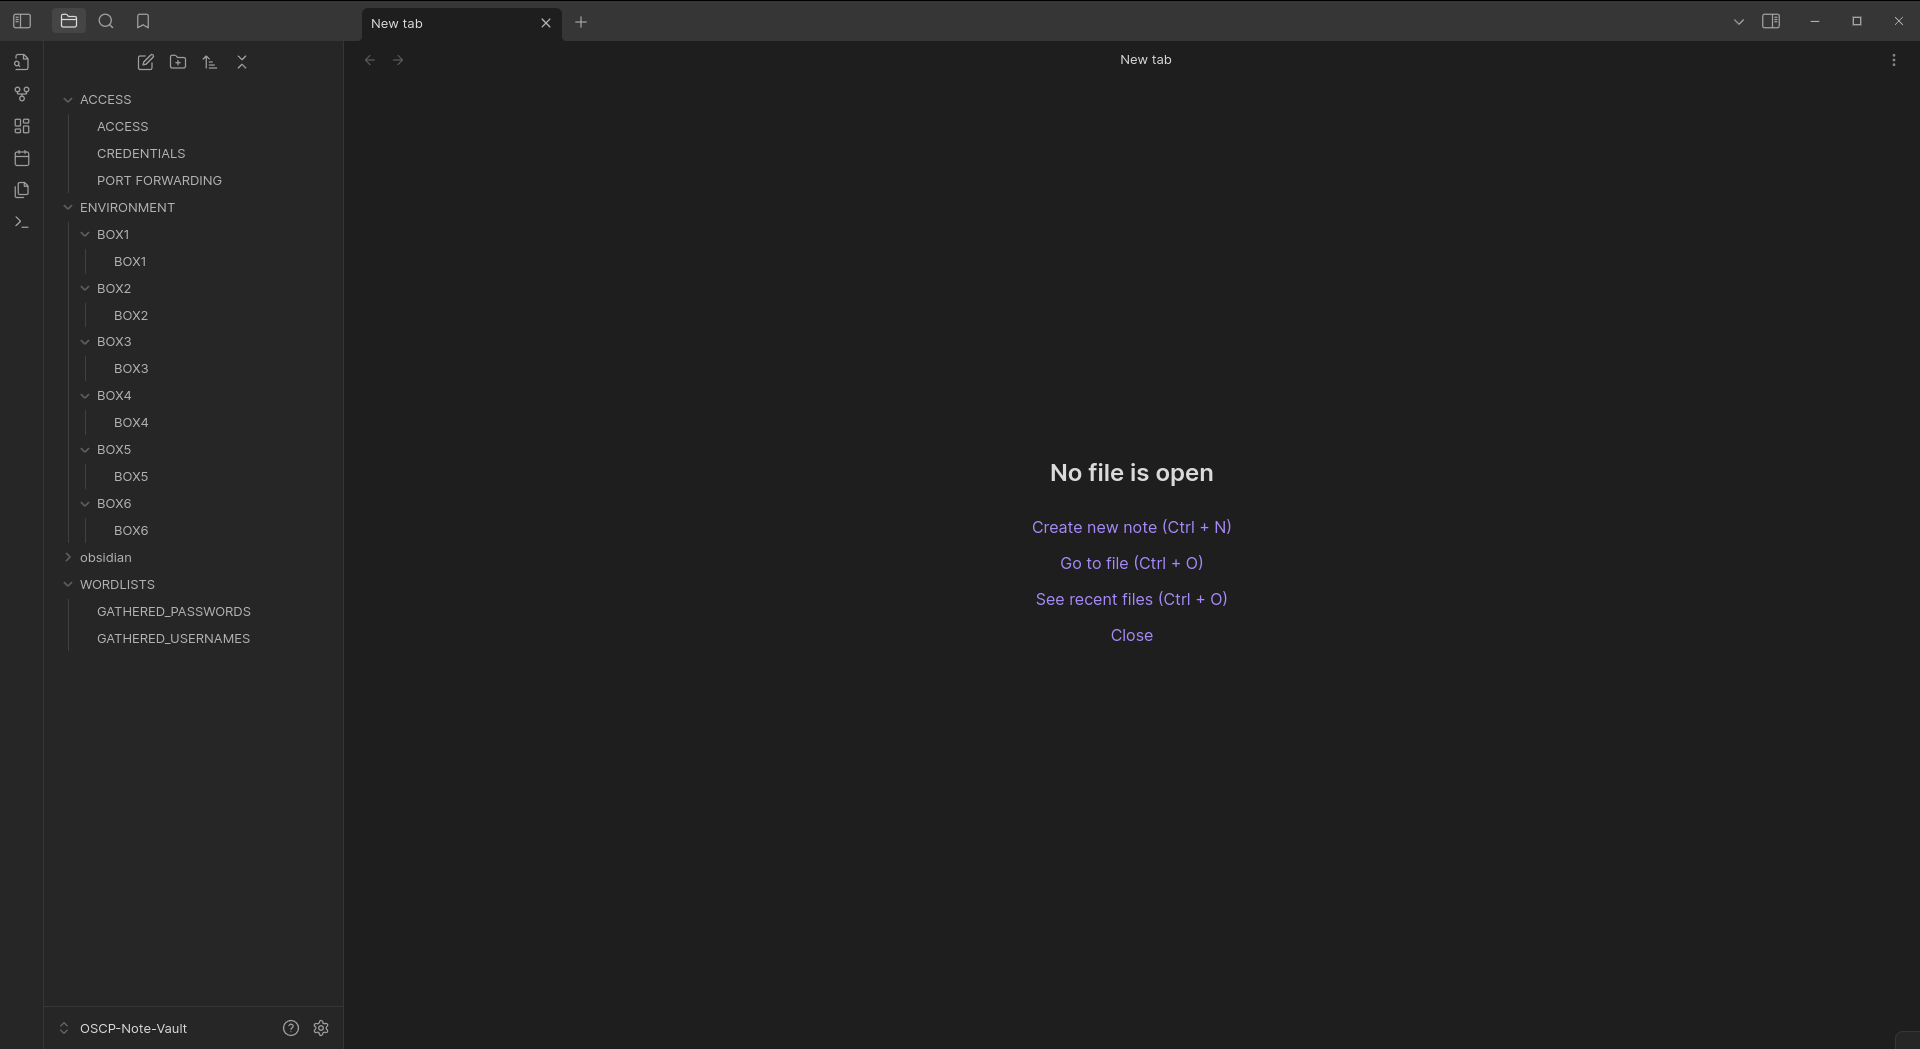
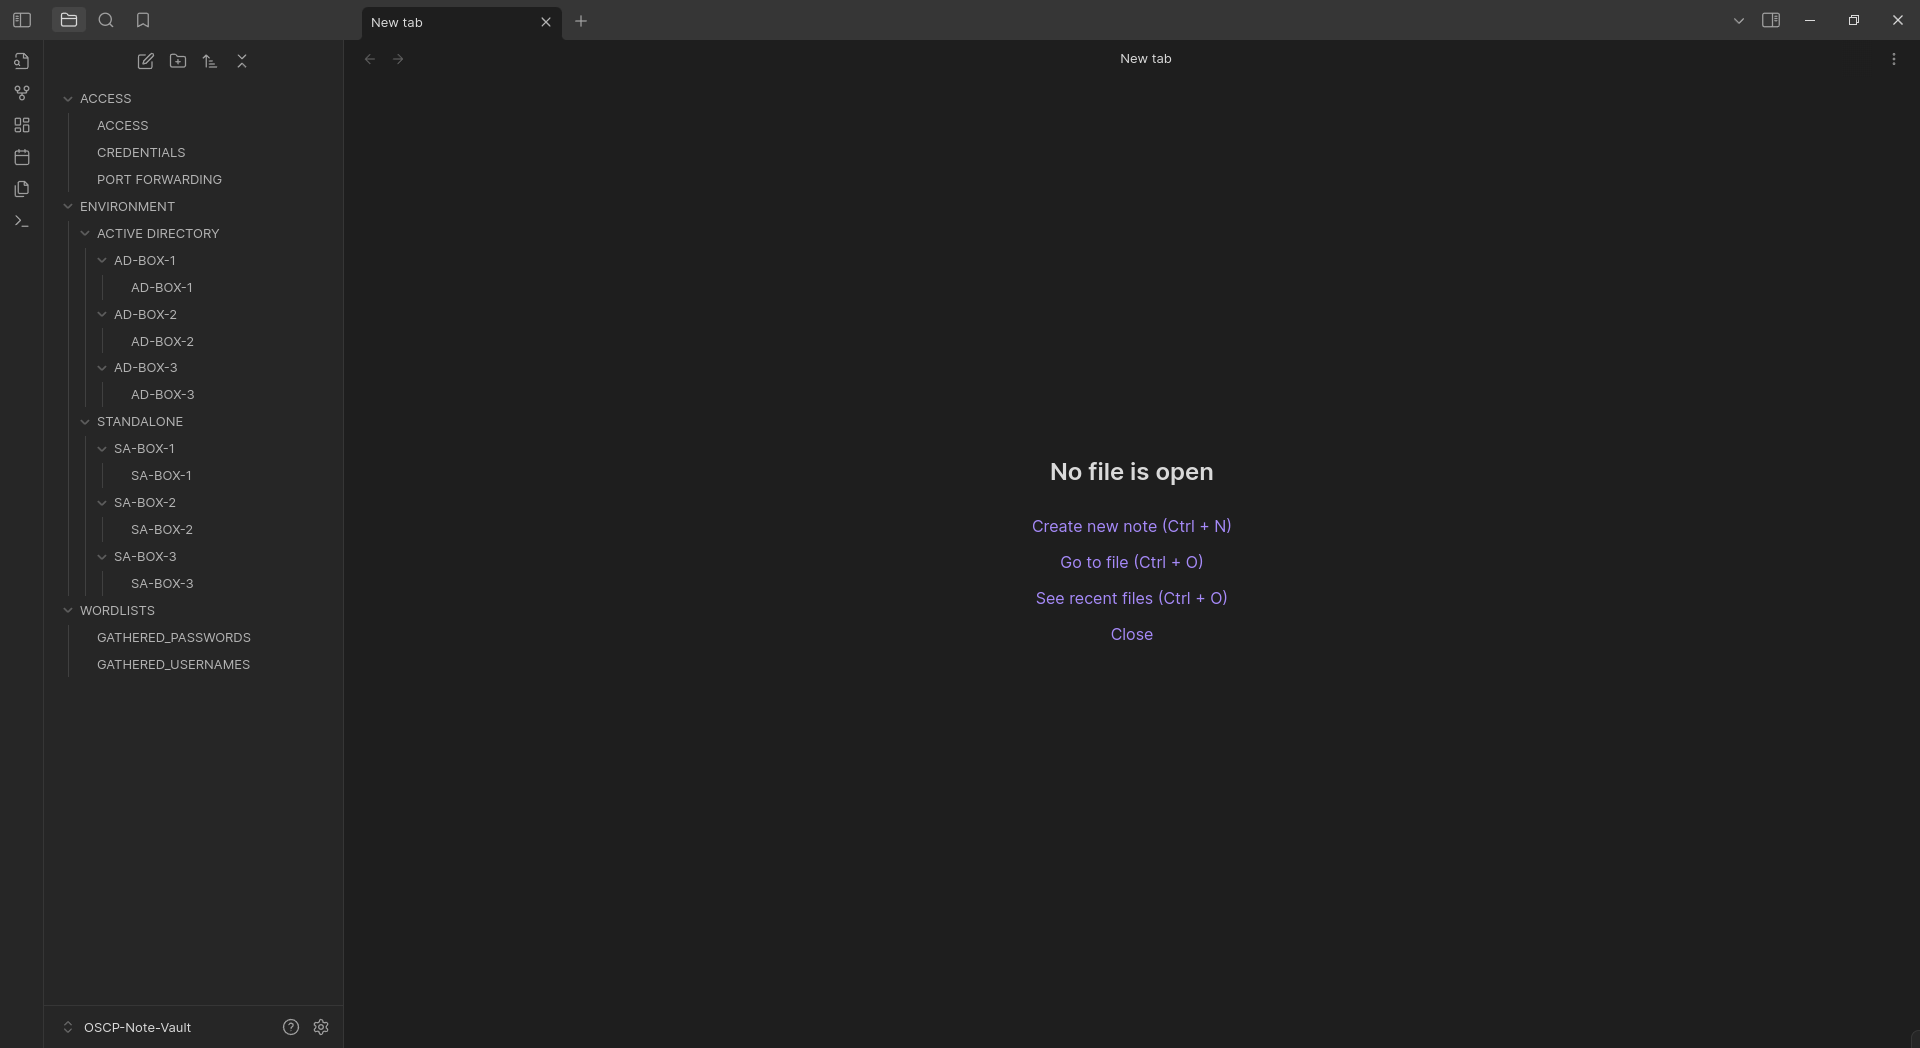
updated folder structure

diff --git a/OSCP-Note-Vault/ENVIRONMENT/ACTIVE DIRECTORY/AD-BOX-1/AD-BOX-1.md b/OSCP-Note-Vault/ENVIRONMENT/ACTIVE DIRECTORY/AD-BOX-1/AD-BOX-1.md
@@ -1,7 +1,7 @@
 
-| IP address      | Name | OS            | Access    | Password / Hash | FLAGS            | Status        |
-| --------------- | ---- | ------------- | --------- | --------------- | ---------------- | ------------- |
-| XXX.XXX.XXX.XXX | BOX2 | WINDOWS/LINUX | `COMMAND` | `PASSWORD/HASH` | NONE/LOCAL/PROOF | NOT-PWND/PWND |
+| IP address      | Name     | OS            | Access    | Password / Hash | FLAGS            | Status        |
+| --------------- | -------- | ------------- | --------- | --------------- | ---------------- | ------------- |
+| XXX.XXX.XXX.XXX | AD-BOX-1 | WINDOWS/LINUX | `COMMAND` | `PASSWORD/HASH` | NONE/LOCAL/PROOF | NOT-PWND/PWND |
 
 ## Table of Contents
 

diff --git a/OSCP-Note-Vault/ENVIRONMENT/ACTIVE DIRECTORY/AD-BOX-2/AD-BOX-2.md b/OSCP-Note-Vault/ENVIRONMENT/ACTIVE DIRECTORY/AD-BOX-2/AD-BOX-2.md
@@ -1,7 +1,7 @@
 
-| IP address      | Name | OS            | Access    | Password / Hash | FLAGS            | Status        |
-| --------------- | ---- | ------------- | --------- | --------------- | ---------------- | ------------- |
-| XXX.XXX.XXX.XXX | BOX3 | WINDOWS/LINUX | `COMMAND` | `PASSWORD/HASH` | NONE/LOCAL/PROOF | NOT-PWND/PWND |
+| IP address      | Name     | OS            | Access    | Password / Hash | FLAGS            | Status        |
+| --------------- | -------- | ------------- | --------- | --------------- | ---------------- | ------------- |
+| XXX.XXX.XXX.XXX | AD-BOX-1 | WINDOWS/LINUX | `COMMAND` | `PASSWORD/HASH` | NONE/LOCAL/PROOF | NOT-PWND/PWND |
 
 ## Table of Contents
 

diff --git a/OSCP-Note-Vault/ENVIRONMENT/ACTIVE DIRECTORY/AD-BOX-3/AD-BOX-3.md b/OSCP-Note-Vault/ENVIRONMENT/ACTIVE DIRECTORY/AD-BOX-3/AD-BOX-3.md
@@ -1,7 +1,7 @@
 
-| IP address      | Name | OS            | Access    | Password / Hash | FLAGS            | Status        |
-| --------------- | ---- | ------------- | --------- | --------------- | ---------------- | ------------- |
-| XXX.XXX.XXX.XXX | BOX6 | WINDOWS/LINUX | `COMMAND` | `PASSWORD/HASH` | NONE/LOCAL/PROOF | NOT-PWND/PWND |
+| IP address      | Name     | OS            | Access    | Password / Hash | FLAGS            | Status        |
+| --------------- | -------- | ------------- | --------- | --------------- | ---------------- | ------------- |
+| XXX.XXX.XXX.XXX | AD-BOX-1 | WINDOWS/LINUX | `COMMAND` | `PASSWORD/HASH` | NONE/LOCAL/PROOF | NOT-PWND/PWND |
 
 ## Table of Contents
 

diff --git a/OSCP-Note-Vault/ENVIRONMENT/STANDALONE/SA-BOX-1/SA-BOX-1.md b/OSCP-Note-Vault/ENVIRONMENT/STANDALONE/SA-BOX-1/SA-BOX-1.md
@@ -1,7 +1,7 @@
 
-| IP address      | Name | OS            | Access    | Password / Hash | FLAGS            | Status        |
-| --------------- | ---- | ------------- | --------- | --------------- | ---------------- | ------------- |
-| XXX.XXX.XXX.XXX | BOX4 | WINDOWS/LINUX | `COMMAND` | `PASSWORD/HASH` | NONE/LOCAL/PROOF | NOT-PWND/PWND |
+| IP address      | Name     | OS            | Access    | Password / Hash | FLAGS            | Status        |
+| --------------- | -------- | ------------- | --------- | --------------- | ---------------- | ------------- |
+| XXX.XXX.XXX.XXX | SA-BOX-1 | WINDOWS/LINUX | `COMMAND` | `PASSWORD/HASH` | NONE/LOCAL/PROOF | NOT-PWND/PWND |
 
 ## Table of Contents
 

diff --git a/OSCP-Note-Vault/ENVIRONMENT/STANDALONE/SA-BOX-2/SA-BOX-2.md b/OSCP-Note-Vault/ENVIRONMENT/STANDALONE/SA-BOX-2/SA-BOX-2.md
@@ -1,7 +1,7 @@
 
-| IP address      | Name | OS            | Access    | Password / Hash | FLAGS            | Status        |
-| --------------- | ---- | ------------- | --------- | --------------- | ---------------- | ------------- |
-| XXX.XXX.XXX.XXX | BOX1 | WINDOWS/LINUX | `COMMAND` | `PASSWORD/HASH` | NONE/LOCAL/PROOF | NOT-PWND/PWND |
+| IP address      | Name     | OS            | Access    | Password / Hash | FLAGS            | Status        |
+| --------------- | -------- | ------------- | --------- | --------------- | ---------------- | ------------- |
+| XXX.XXX.XXX.XXX | SA-BOX-2 | WINDOWS/LINUX | `COMMAND` | `PASSWORD/HASH` | NONE/LOCAL/PROOF | NOT-PWND/PWND |
 
 ## Table of Contents
 

diff --git a/OSCP-Note-Vault/ENVIRONMENT/STANDALONE/SA-BOX-3/SA-BOX-3.md b/OSCP-Note-Vault/ENVIRONMENT/STANDALONE/SA-BOX-3/SA-BOX-3.md
@@ -1,7 +1,7 @@
 
-| IP address      | Name | OS            | Access    | Password / Hash | FLAGS            | Status        |
-| --------------- | ---- | ------------- | --------- | --------------- | ---------------- | ------------- |
-| XXX.XXX.XXX.XXX | BOX5 | WINDOWS/LINUX | `COMMAND` | `PASSWORD/HASH` | NONE/LOCAL/PROOF | NOT-PWND/PWND |
+| IP address      | Name     | OS            | Access    | Password / Hash | FLAGS            | Status        |
+| --------------- | -------- | ------------- | --------- | --------------- | ---------------- | ------------- |
+| XXX.XXX.XXX.XXX | SA-BOX-3 | WINDOWS/LINUX | `COMMAND` | `PASSWORD/HASH` | NONE/LOCAL/PROOF | NOT-PWND/PWND |
 
 ## Table of Contents
 
